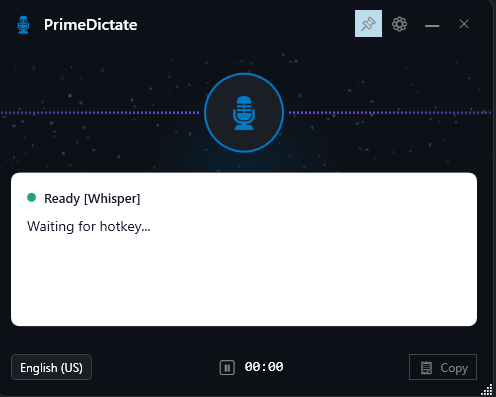
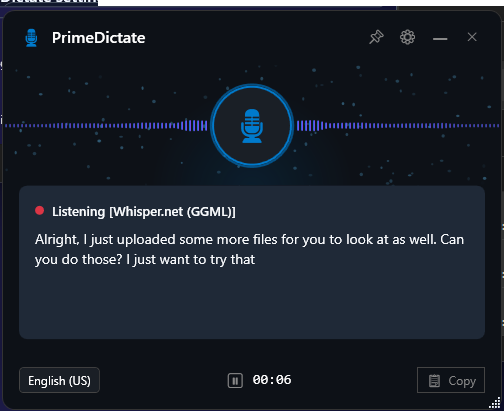
Refactor code structure for improved readability and maintainability

diff --git a/README.md b/README.md
@@ -10,7 +10,7 @@
   <br/>
   <img src="assets/overlay_full.png" alt="Live Dictation Overlay" width="600" />
   <br/><br/>
-  <img src="assets/workspace.png" alt="Workspace Dashboard" width="600" />
+  <img src="assets/settings_dictation.png" alt="Commands and voice phrase settings" width="600" />
 </div>
 
 ## What It Does
@@ -64,6 +64,32 @@ PrimeDictate supports polite send phrases like "thank you" and strips them befor
 - **Local rewrite modes**: Optional Ollama integration can post-process dictated text with context-aware prompt modes.
 
 ![Compact Mic Overlay](assets/overlay_compact.png)
+
+## Product Walkthrough
+
+### Model setup
+
+Pick your backend, compute interface, and model from the Settings model tab.
+
+![Model setup (Whisper.net)](assets/settings_model_whispernet.png)
+
+### Commands and phrases
+
+Map hotkeys, voice phrases, and optional command actions so speaking and committing feels natural in your daily workflow.
+
+![Commands and phrases](assets/settings_dictation.png)
+
+### Transcript replacements
+
+Tune frequent phrases before final typing so recurring terms normalize automatically.
+
+![Transcript replacements](assets/settings_replacements.jpg)
+
+### Transcript history
+
+Review previous sessions, delivery targets, and transcript details in the history window.
+
+![Transcript history](assets/history.png)
 
 ## Get PrimeDictate
 